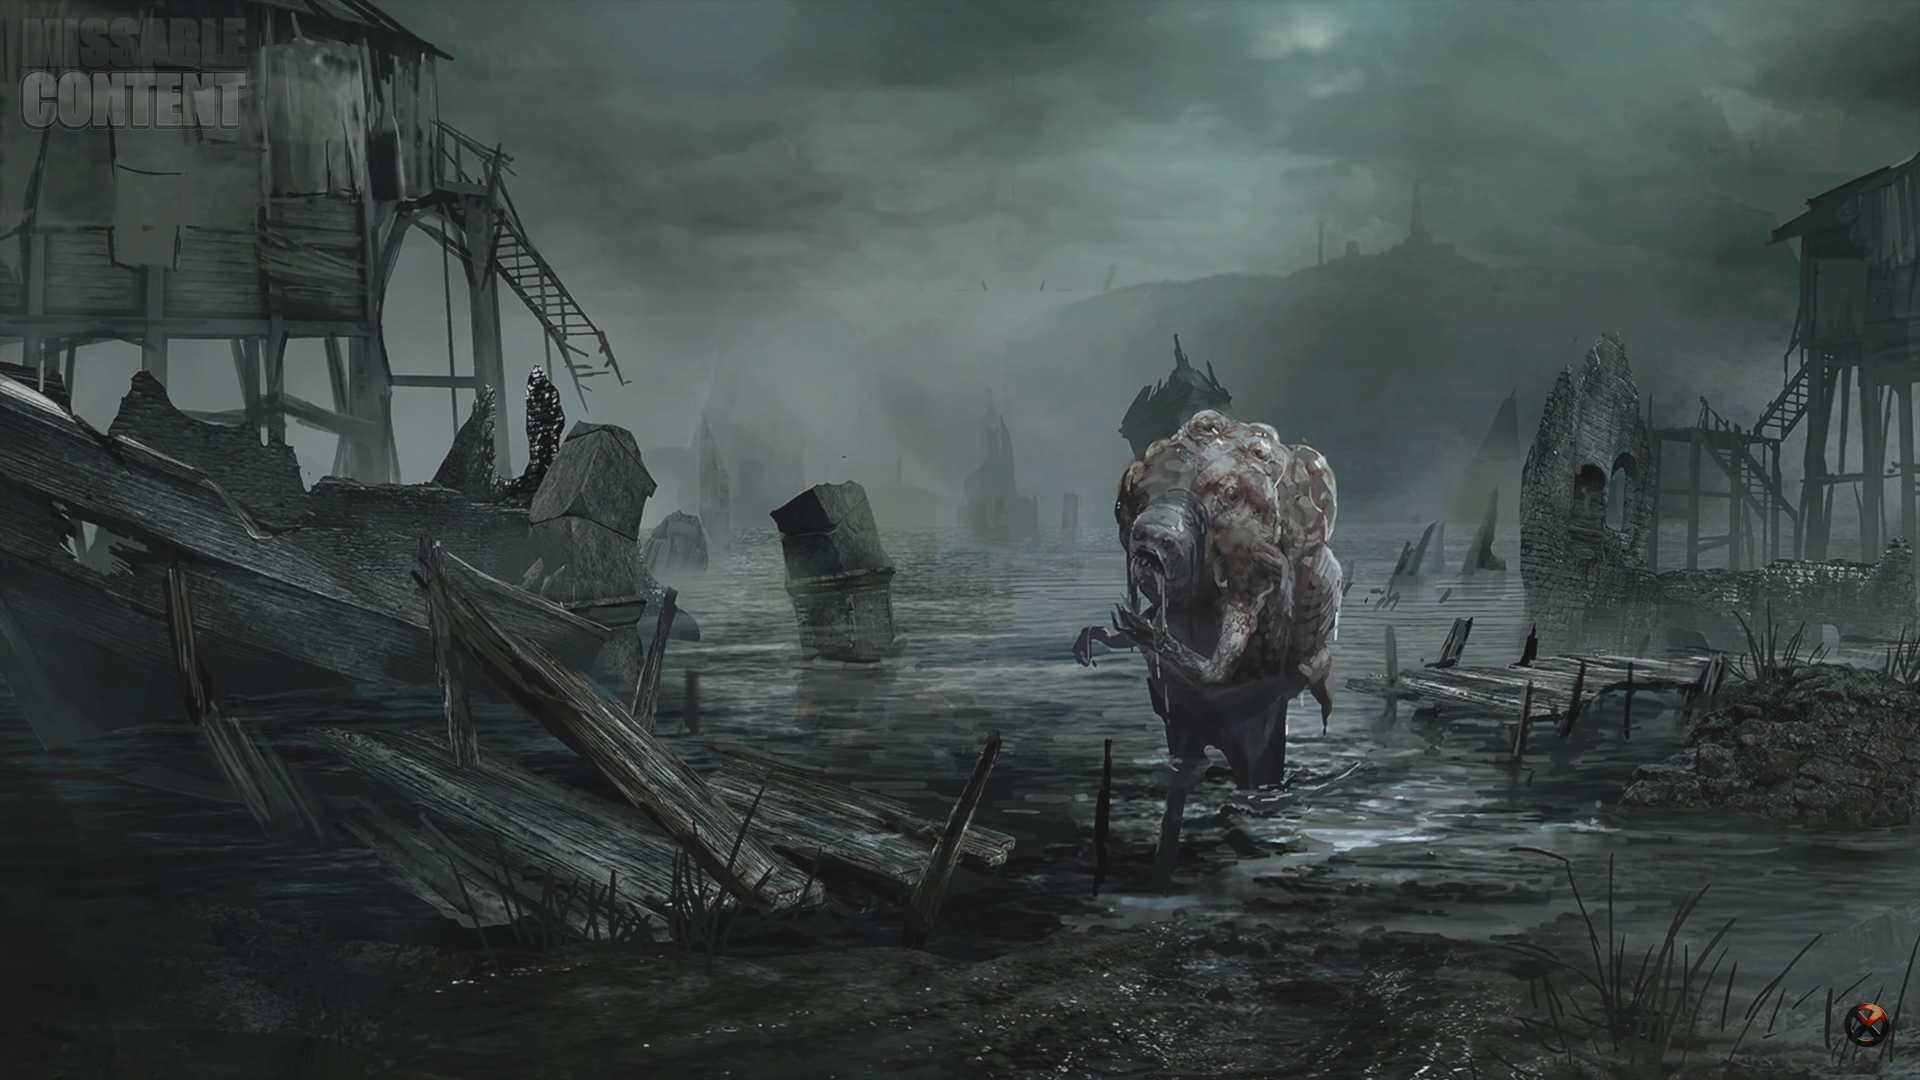
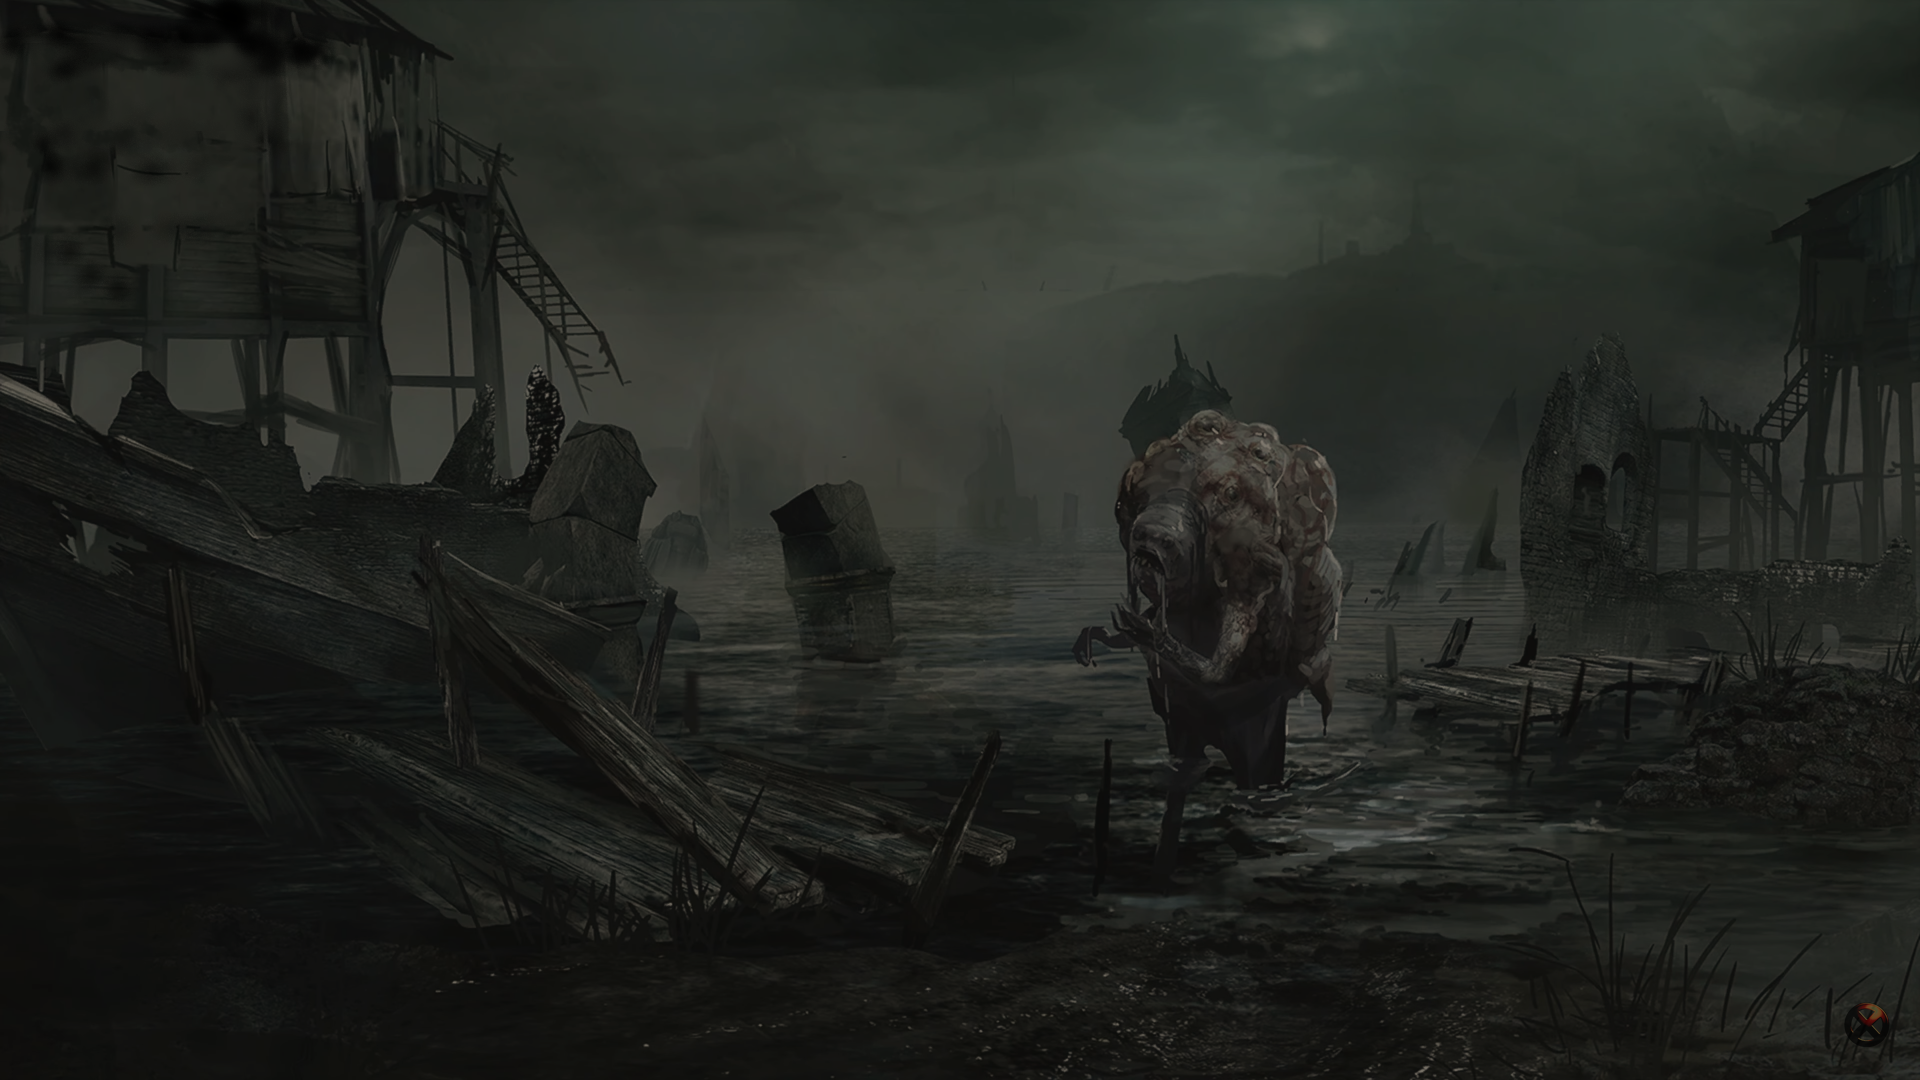
Morreau css

diff --git a/html/morreau.html b/html/morreau.html
@@ -5,102 +5,154 @@
     <head>
 
         <meta charset="UTF-8" />
-        <link href="../css/morreau.css"rel="stylesheet">
-
-        <title>morreau</title>
+        <link href="../css/style.css"rel="stylesheet">
+        <script src="https://kit.fontawesome.com/c6d2413c18.js" crossorigin="anonymous"></script>
+        <title>Morreau</title>
     </head>
 
-    <body>
-        <h1 class="titre">Salvator Morreau</h1>
-        <div class="morreau">
-            <img src="..\img\morreau.gif">
-            <p>Salvator Morreau est un des 4 nobles aidant Mère Miranda à diriger le village</p>
-        </div>
-        <div class="image">
-            <img src="..\img\Salvator.png">
-        </div>
-        <br>
-        <br>
-        <br>
-        <div class="morreau"><h2>Fonction:</h2>
-            <p>Il réside dans le lac prés du barrage du village et il</p>
-            <p>aide Miranda dans ces expériences sur le Cadou.</p>
-        </div>
-        <br>
-        <br>
-        <br>
-        <div class="morreau"><h2>Apparence:</h2>
-            <p>Lors de sa première apparition, nous pouvons constater un monstre trés</p>
-            <p>laid cachait sous un drap noir est un visage boussouflé, il est envore</p>
-            <p>pire quand Ethan l'affrontera, il a des sortes de verrues sur le dos</p>
-            <p>ainsi que des yeux, nous pouvons en l'observant voir qu'il possède des branchies.</p>
-        </div>
-        <br>
-        <br>
-        <br>
-        <div class="morreau"><h2>Charactère:</h2>
-            <p>Morreau à l'air dans un premier temps une victime faible qui vous implore,</p>
-            <p>mais c'est pour vous piéger, il est trés fourbe et malin malgrés son apparence.</p>
-            <p>Beneviento le traitera de laid par le biais d'Angie et les autres nobles</p>
-            <p>n'ont pas l'air de l'apprécier plus que ça, même Miranda ne le respecte pas mais</p>
-            <p>lui à l'inverse est sans doute le noble la respectant le plus, nous pouvons le</p>
-            <p>voir quand il appèle mère Miranda "maman", il est aussi trés maladroit comme</p>
-            <p>quand il laisse par mégard son bocal de Rose à la porté d'Ethan.</p>
-        </div>
+    <body class="fond_morreau">
+        <div class="fond_texte">
+            <div class="menu">
+                <p><i class="fas fa-bars fa-0.5x"></i> Menu</p>
+                <div class="conteneurmenu">
+                    <div class="boutonmenu">
+                        <a href="../index.html"><p class="texte">Accueil</p></a>
+                    </div>
+                    <div class="boutonmenu">
+                        <a href="boss.html" class="texte"><p>Les boss</p></a>
+                    </div>
+                    <div class="sousmenuarme">
+                        <p class="textearme">Les armes</p>
+                        <div class="sousmenu">
+                            <div class="arme">
+                                <a href="arme de poing.html" class="texte"><p>Arme de poing</p></a>
+                            </div>
+                            <div class="arme">
+                                <a href="fusil.html" class="texte"><p>Fusil</p></a>
+                            </div>
+                            <div class="arme">
+                                <a href="sniper.html" class="texte"><p>Sniper</p></a>
+                            </div>
+                            <div class="arme">
+                                <a href="lance grenade.html" class="texte"><p>Lance grenade</p></a>
+                            </div>
+                            <div class="arme">
+                                <a href="fusil d'assault.html" class="texte"><p>Fusil d'assault</p></a>
+                            </div>
+                            <div class="arme">
+                                <a href="arme de mêlée.html" class="texte"><p>Arme de  mêlée</p></a>
+                            </div>
+                            <div class="arme">
+                                <a href="magnum.html" class="texte"><p>Magnum</p></a>
+                            </div>
+                        </div>
+                    </div>
+                    <div class="boutonmenu">
+                        <a href="histoire.html"><p class="texte">L'Histoire</p></a>
+                    </div>
+                </div>
+            </div>
+            <h1 class="titre">Salvator Morreau</h1>
+            <div class="text_wiki_boss">
+                <div class="navigation">
+                <a href="#"><p>Intro</p></a>
+                <a href="#2"><p>Fonction</p></a>
+                <a href="#3"><p>Apparence</p></a>
+                <a href="#4"><p>Charactère</p></a>
+                <a href="#5"><p>Histoire</p></a>
+                <a href="#6"><p>Aptitude</p></a>
+                <a href="#7"><p>Faiblesse</p></a>
+            </div>
+            <div class="text_wiki_boss">
+                <img src="..\img\morreau.gif">
+                <p>Salvator Morreau est un des 4 nobles aidant Mère Miranda à diriger le village</p>
+            </div>
+            <div class="image_boss">
+                <img src="..\img\Salvator.png">
+            </div>
             <br>
             <br>
             <br>
-        <div class="morreau"><h2>Histoire:</h2>
-            <p>Nous ne connaisons pas grand chose de son histoire avant sa mutation,</p>
-            <p>ni comment il a rencontré Miranda, nous savons qu'il possède beaucoup de</p>
-            <p>connaissance sur le cadou est la biologie mais rien ne nous dit si il</p>
-            <p>les avaient avant de devenir un mutant. Son role principal est d'aider</p>
-            <p>Miranda dans ces expériences et pour trouver l'hote parfait pour la</p>
-            <p>réincarnation de l'enfant de mère Miranda, il est aussi à l'origine</p>
-            <p>de la création de la plupart des monstres qu'Ethan  rencontontre.</p>
-            <p>Dans une de ces lettres, Miranda décris Salvator comme son pire echec,</p>
-            <p>elle lui avait implantait trois cadou dans son corp, ce qui explique qu'il</p>
-            <p>soit autant déformé et moche.</p>
-        </div>
-        <br>
-        <br>
-        <br>
-        <div class="morreau"><h2>Aptitude et compétence:</h2>
-            <p>Morreau possède des poumons et des branchies pour pouvoir respiré autant</p>
-            <p>sur terre que dans l'eau, il possède une grande connaissance sur le cadou</p>
-            <p>et il est assez sournois pour nous tendre des pièges, il peut se transformer</p>
-            <p>en un sorte de léviathan ce qui le rend imbattable sours l'eau mais il</p>
-            <p>arrive à se défendre sur la terre ferme, il peut aussi crachait des litrez</p>
-            <p>d'acide pour faire fondre ses ennemies et la lance dans les airs pour en</p>
-            <p>faire un plui d'acide, il peut aussi avec son acide le solidifié pour en</p>
-            <p>faire un murs, comme par example quand il piège Ethan avec des murs d'acide</p>
-            <p>pour l'empécher de s'enfuir.</p>
-        </div>
-        <br>
-        <br>
-        <br>
-        <div class="morreau"><h2>Faiblesse:</h2>
-            <p>Malgrés son intelligence pour les expérience, Morreau est trés stupides</p>
-            <p>comme quand il perd son bocal de Rose ou quand il décide de nous affronter sur</p>
-            <p>terre, il est bien moin fort sur terre que en mère et il a beaucoup de</p>
-            <p>difficulté à controler ses pouvoir à cause de ces 3 cadous dans le corp qui</p>
-            <p>sont instable, le font vomir ou le force à se transformer en monstre sans</p>
-            <p>qu'ils puissent y résisté, ceci le force à rester la majeur partie de son temps</p>
-            <p>dans son lac.</p>
-        </div>
-        <br>
-        <br>
-        <br>
-        <div class="spoil">
-            <a><h2>Comment le vaincre ?</h2></a>
-        <div class="soluce">
-            <img src="..\img\leviathan.png">
-            <p>Morreau peut au début paraître compliqué, ses paternes peuvent vous</p>
-            <p>tuer en quelque minute mais elles son simple à localiser et à éviter,</p>
-            <p>en premier lieu gardé vos distance avec lui pour lui tiré dessus, quand</p>
-            <p>il se met sur les toits, abritez-vous pour vous protéger de sa pluie acide,</p>
-            <p>enfin, utilisé le lance-grenade GM79 pour détruire les murs d'acide pour</p>
-            <p>une meilleur mobilité.</p>
+            <div class="text_wiki_boss"><h2 id="2">Fonction:</h2>
+                <p>Il réside dans le lac prés du barrage du village et il</p>
+                <p>aide Miranda dans ces expériences sur le Cadou.</p>
+            </div>
+            <br>
+            <br>
+            <br>
+            <div class="text_wiki_boss"><h2 id="3">Apparence:</h2>
+                <p>Lors de sa première apparition, nous pouvons constater un monstre trés</p>
+                <p>laid cachait sous un drap noir est un visage boussouflé, il est envore</p>
+                <p>pire quand Ethan l'affrontera, il a des sortes de verrues sur le dos</p>
+                <p>ainsi que des yeux, nous pouvons en l'observant voir qu'il possède des branchies.</p>
+            </div>
+            <br>
+            <br>
+            <br>
+            <div class="text_wiki_boss"><h2 id="4">Charactère:</h2>
+                <p>Morreau à l'air dans un premier temps une victime faible qui vous implore,</p>
+                <p>mais c'est pour vous piéger, il est trés fourbe et malin malgrés son apparence.</p>
+                <p>Beneviento le traitera de laid par le biais d'Angie et les autres nobles</p>
+                <p>n'ont pas l'air de l'apprécier plus que ça, même Miranda ne le respecte pas mais</p>
+                <p>lui à l'inverse est sans doute le noble la respectant le plus, nous pouvons le</p>
+                <p>voir quand il appèle mère Miranda "maman", il est aussi trés maladroit comme</p>
+                <p>quand il laisse par mégard son bocal de Rose à la porté d'Ethan.</p>
+            </div>
+                <br>
+                <br>
+                <br>
+            <div class="text_wiki_boss"><h2 id="5">Histoire:</h2>
+                <p>Nous ne connaisons pas grand chose de son histoire avant sa mutation,</p>
+                <p>ni comment il a rencontré Miranda, nous savons qu'il possède beaucoup de</p>
+                <p>connaissance sur le cadou est la biologie mais rien ne nous dit si il</p>
+                <p>les avaient avant de devenir un mutant. Son role principal est d'aider</p>
+                <p>Miranda dans ces expériences et pour trouver l'hote parfait pour la</p>
+                <p>réincarnation de l'enfant de mère Miranda, il est aussi à l'origine</p>
+                <p>de la création de la plupart des monstres qu'Ethan  rencontontre.</p>
+                <p>Dans une de ces lettres, Miranda décris Salvator comme son pire echec,</p>
+                <p>elle lui avait implantait trois cadou dans son corp, ce qui explique qu'il</p>
+                <p>soit autant déformé et moche.</p>
+            </div>
+            <br>
+            <br>
+            <br>
+            <div class="text_wiki_boss"><h2 id="6">Aptitude et compétence:</h2>
+                <p>Morreau possède des poumons et des branchies pour pouvoir respiré autant</p>
+                <p>sur terre que dans l'eau, il possède une grande connaissance sur le cadou</p>
+                <p>et il est assez sournois pour nous tendre des pièges, il peut se transformer</p>
+                <p>en un sorte de léviathan ce qui le rend imbattable sours l'eau mais il</p>
+                <p>arrive à se défendre sur la terre ferme, il peut aussi crachait des litrez</p>
+                <p>d'acide pour faire fondre ses ennemies et la lance dans les airs pour en</p>
+                <p>faire un plui d'acide, il peut aussi avec son acide le solidifié pour en</p>
+                <p>faire un murs, comme par example quand il piège Ethan avec des murs d'acide</p>
+                <p>pour l'empécher de s'enfuir.</p>
+            </div>
+            <br>
+            <br>
+            <br>
+            <div class="text_wiki_boss"><h2 id="7">Faiblesse:</h2>
+                <p>Malgrés son intelligence pour les expérience, Morreau est trés stupides</p>
+                <p>comme quand il perd son bocal de Rose ou quand il décide de nous affronter sur</p>
+                <p>terre, il est bien moin fort sur terre que en mère et il a beaucoup de</p>
+                <p>difficulté à controler ses pouvoir à cause de ces 3 cadous dans le corp qui</p>
+                <p>sont instable, le font vomir ou le force à se transformer en monstre sans</p>
+                <p>qu'ils puissent y résisté, ceci le force à rester la majeur partie de son temps</p>
+                <p>dans son lac.</p>
+            </div>
+            <br>
+            <br>
+            <br>
+            <div class="spoil">
+                <a><h2>Comment le vaincre ?</h2></a>
+            <div class="soluce">
+                <img src="..\img\leviathan.png">
+                <p>Morreau peut au début paraître compliqué, ses paternes peuvent vous</p>
+                <p>tuer en quelque minute mais elles son simple à localiser et à éviter,</p>
+                <p>en premier lieu gardé vos distance avec lui pour lui tiré dessus, quand</p>
+                <p>il se met sur les toits, abritez-vous pour vous protéger de sa pluie acide,</p>
+                <p>enfin, utilisé le lance-grenade GM79 pour détruire les murs d'acide pour</p>
+                <p>une meilleur mobilité.</p>
+            </div>
         </div>
     </body>
 

diff --git a/html/beneviento.html b/html/beneviento.html
@@ -67,7 +67,7 @@
                 <img src="..\img\poupée.gif">
                 <p>Donna Beneviento est une des 4 nobles aidant Mère Miranda à diriger le village</p>
             </div>
-            <!--<div class="image_boss">
+            <!--<div class="image_boss">  fond blanc degeu ↓
                 <img src="..\img\DonnaBeneviento.jpg">
             </div> -->
             <br>
@@ -82,7 +82,7 @@
             <br>
             <div class="text_wiki_boss"><h2 id="3">Apparence:</h2>
                 <p>C'est une femme se cachant constament sous un voile noir avec une longue</p>
-                <p>robe de bure noir et tenant une poupée de mariage, Angie.</p>
+                <p>robe de bure noire et tenant une poupée de mariage, Angie.</p>
             </div>
             <br>
             <br>

diff --git a/css/style.css b/css/style.css
@@ -451,3 +451,16 @@ a{
     justify-content: center;
     margin-top:0px;
 }
+.text_wiki_boss > img {
+    border-radius: 45px;
+}
+.fond_morreau{
+    background-image:url(../img/fond/beurk.png) ;
+    background-repeat: no-repeat;
+    background-attachment:fixed;
+    background-size: cover;
+    text-align: center;
+    display: flex;
+    justify-content: center;
+    margin-top:0px;
+}
